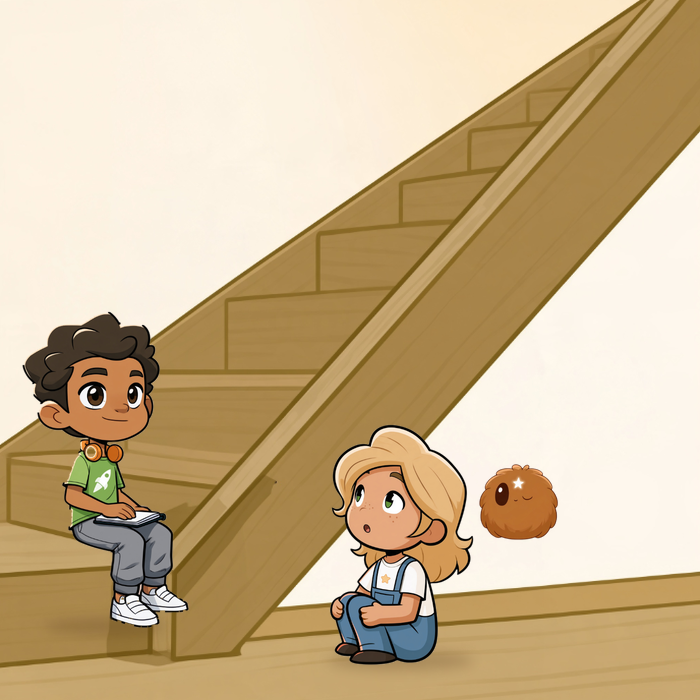
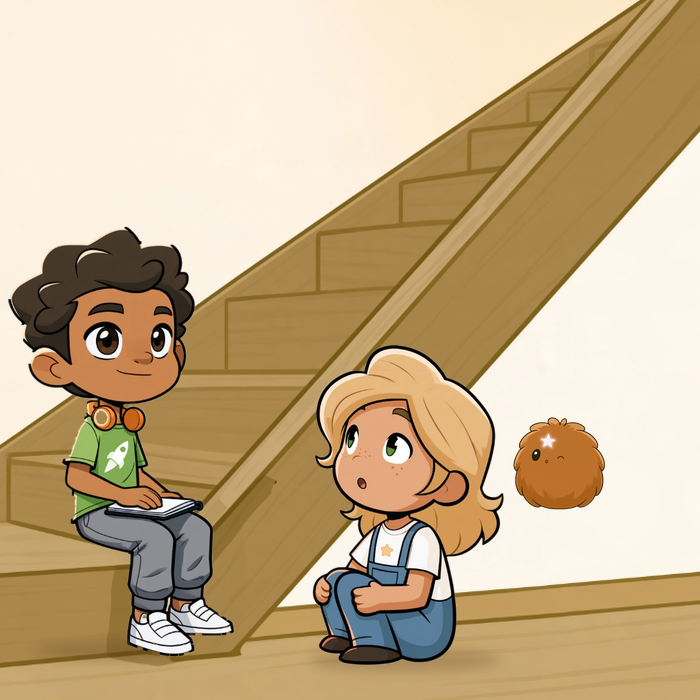
Strona 23: większe postacie i nowy Lumi / Page 23: bigger characters and new Lumi
Claude-Session: https://claude.ai/code/session_01J5W66USWz5i1aawWXjdiRy

Changed region(s): [[0.45, 0.48, 0.87, 0.96], [0.0, 0.33, 0.33, 0.96]]

diff --git a/prompty/STAN.md b/prompty/STAN.md
@@ -19,7 +19,7 @@ Ostatnia aktualizacja / last update: 13.11.2026, 11:50
 - Przeglądarka czasem zwraca „Couldn't determine which page” — odczekaj 20 s, tabs_context, ponów.
 
 ## Następne kroki / Next steps
-1. Zrzucić Lumi (wersja 3), dodać warstwę do s23.json obok ramienia Amelii, pokazać stronę 23. / Capture Lumi v3, add to s23.json, show page 23.
+1. Strona 23 pokazana (11:55): Leo 0.68, Amelia 0.6, Lumi 2e7b3096-640b-43de-8d94-74fefcd69841/2 (skala 0.18). Czeka na ocenę. / Page 23 shown, waiting for feedback.
 2. Po akceptacji: warstwy dla stron 22 i 24 (Leo + Amelia + Lumi) oraz 19, 20, 21 (Amelia + Lumi) na tym samym tle. Tekst stron: tekst/ksiazka_pl_en.md.
 3. Potem strony 25–30 i okładka (25: klasa ze strony 16 — to też to samo miejsce!).
 4. Druk: podmienić zrzuty na pełną jakość z MJ (pobiera użytkownik) i uruchomić sklej.py ponownie.
